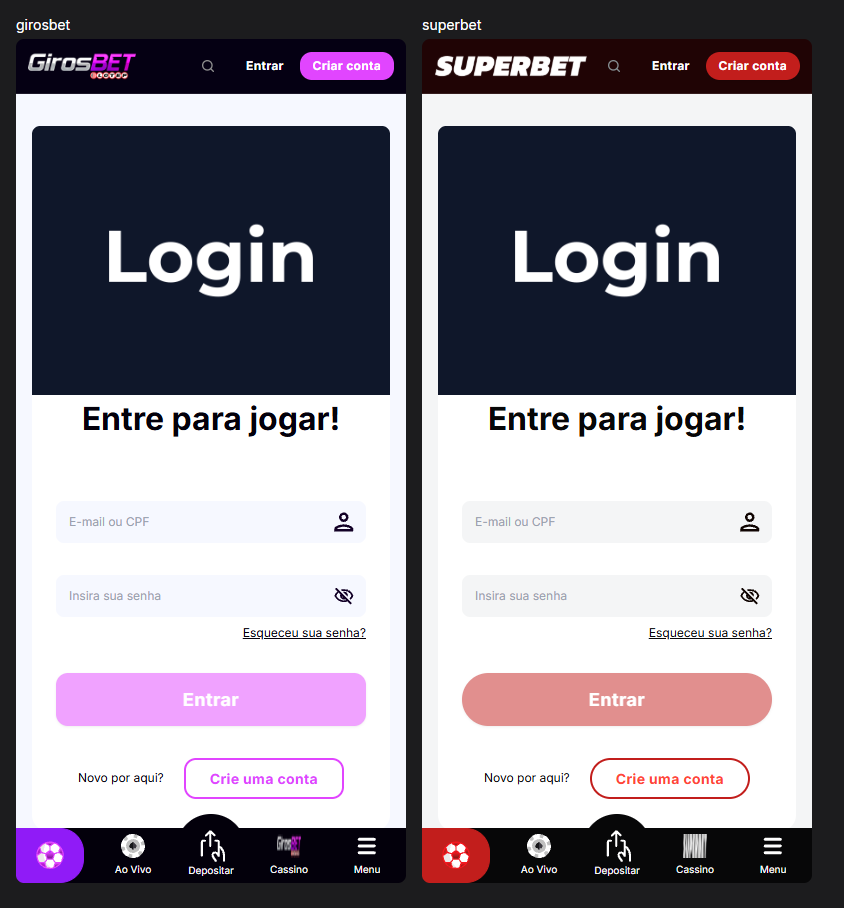
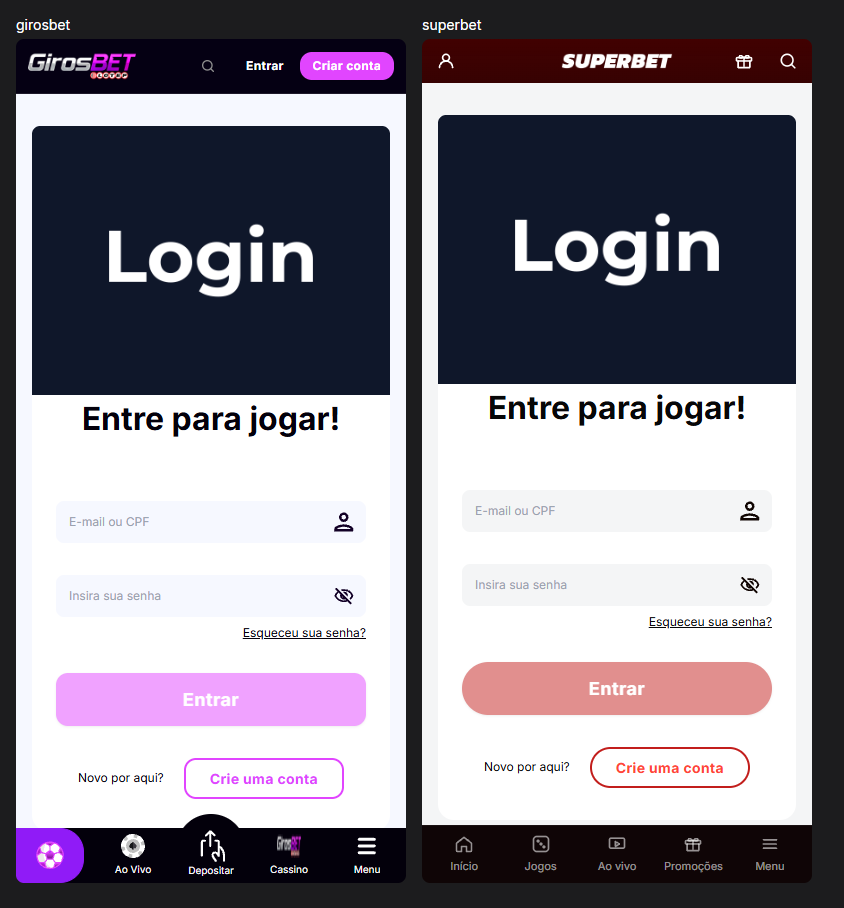
docs(white-label): a WL-9 no desenho, na receita e no backlog, com as capturas da superbet no shell novo
Claude-Session: https://claude.ai/code/session_01B9rccvjmkpDYmCBVzBPUBz

diff --git a/docs/white-label/01-design.md b/docs/white-label/01-design.md
@@ -221,6 +221,70 @@ publicando uma versão nova da lib.
 - Pendências do ambiente, não do código: `assets/icons/play-icon.svg` ("Crash Games") é preto e some no fundo
   escuro; o CORS do backoffice local só aceita as origens 4200/8080.
 
+### O que WL-9 mudou
+
+- `layout.sidebarStyle` decide a pele da sidebar desktop. `blocks` (padrão, girosbet) continua sendo a
+  coluna escura com o banner do CMS, os tiles Cupom/Promo e os menus agrupados. `pills` (superbet) apaga
+  fundo e borda direita da `<aside>`, não pede o banner ao CMS e não desenha os tiles: sobram os mesmos
+  menus agrupados, agora em pílulas de 40 px (`h-10 rounded-full px-3`, ícone de 20 px, rótulo truncado).
+  Largura, offset sticky (`--header-height-desktop`), rolagem e o trilho colapsado de 64 px são os mesmos
+  nas duas peles.
+- O item ativo da pele `pills` é o primeiro consumidor dos tokens de navegação: `text-nav-active` sobre
+  `bg-linear-to-r from-nav-active-fill from-56% to-transparent`. As três marcas declaram os dois tokens,
+  então o mesmo markup se pinta sozinho em cada uma. O destaque da entrada de fidelidade
+  (`features.highlightedMenuLabels`) e o spinner de carregamento não mudaram.
+- `layout.footer` decide a composição do rodapé. `columns` (padrão, betaki e girosbet) é o empilhamento
+  clássico. `regulatory` (superbet) recompõe os mesmos dados em uma grade de cinco colunas
+  (`lg:grid-cols-[1.4fr_1fr_1fr_1fr_1fr]`) sobre `bg-shark-950`: marca, texto de jogo responsável e a
+  fileira de selos à esquerda; as colunas de link e Pagamentos à direita; embaixo o parágrafo regulatório
+  e uma linha final com as redes sociais, o copyright, Ouvidoria/Privacidade e o wordmark grande a 30 %
+  de opacidade. Nenhum dado novo: `linkColumns`, `socialIcons`, `certificationImages`, `supportOptions`,
+  `sponsors`, `legal.disclaimer` e `assets.logoColor` são os de sempre.
+- O respiro inferior do rodapé no mobile passou a depender de `layout.mobileAccountBar`: 88 px para quem
+  só tem o menu inferior, 145 px para quem tem a barra fixa de conta de 57 px acima dele.
+- Os dois componentes ficaram sem `class` estático nos elementos que mudam de pele: a classe inteira é
+  concatenada em um `[class]`, o que deixa a string renderizada idêntica à de hoje para a pele padrão.
+  Prova: 0 pixels de diferença na faixa da sidebar da girosbet (260 x 900) contra a baseline, e o diff de
+  CSS das duas marcas antigas só acusa regras novas mais as custom properties de tema.
+- Fica de fora: a marca de referência não declara redes sociais nem patrocinadores, então a linha de
+  ícones sociais e o bloco de patrocínio do rodapé `regulatory` existem no template mas não aparecem na
+  superbet.
+- `layout.header` deixou de ser um booleano: o header pai escolhe entre `brand-bar`, `dark` e `floating`, e
+  as duas peles antigas produzem exatamente a mesma string de classes de antes. Fora do jogo, o `floating`
+  não pinta barra nenhuma (sem `bg-surface-header`, sem blur, sem borda) e ainda desliga os eventos de
+  ponteiro na faixa vazia, para que a página apareça nas laterais e o clique caia em quem está embaixo. No
+  modo jogo as três peles voltam à barra cheia de sempre, porque a navegação de jogo é a mesma nas três.
+- `app-header-floating` tem o host em `display: contents` e as mesmas entradas e saídas do
+  `app-header-dark`. Acima de `md` é uma barra arredondada de 64 px com 16 px acima e 24 px de gutter,
+  `bg-surface-header/80` com `backdrop-blur-md` e borda `white/5`; dentro, o logo de 22 px, o botão da
+  sidebar desktop quando a marca a declara, os links de produto em 14/600 com o ativo em `text-nav-active`,
+  um separador de 1 px e "Esportes" só quando existe `integrations.sportsbook`, e à direita busca e conta
+  como botões redondos de 32 px mais os dois CTAs em `<app-button>` (ou o bloco de saldo + Depósito quando
+  logado). Abaixo de `md` é uma barra de 44 px transparente: conta à esquerda, wordmark centrado entre duas
+  metades de largura igual (`flex-1 basis-0`), promoções (ou a pílula de saldo, quando logado) e busca à
+  direita. Todos os ícones são SVG inline na grade de 24 em `currentColor`, nenhum arquivo de marca novo.
+- O brilho do `floating` é da página e não da barra: um gradiente de 240 px `from-surface-header-glow`
+  montado pelo shell no topo do `main-container` (`-z-10`, sem eventos de ponteiro), que rola junto com o
+  conteúdo enquanto a barra fica parada, como na superbet.bet.br. O container só vira contexto de
+  empilhamento (`relative z-0`) para essa marca; betaki e girosbet não ganham nem o div nem as classes,
+  porque tudo entra por `[ngClass]`.
+- `layout.mobileNav` decide o menu inferior. `classic` (betaki, girosbet) é o mesmo markup de sempre, agora
+  no ramo `@else`. `tabs` (superbet) é uma barra de 58 px em `bg-surface-nav-mobile` com borda superior
+  `white/5` e cinco itens planos de ícone 20 px e rótulo 11/400, ativo em branco e inativos em branco 56 %:
+  Início, Jogos, Ao vivo, Promoções e, como quinto, a troca de produto (Esportes quando a marca integra um
+  sportsbook, senão Menu, que abre a gaveta com os menus do CMS).
+- `layout.mobileAccountBar` monta `app-mobile-account-bar` logo acima do menu inferior enquanto o jogador
+  está deslogado: 57 px, dois `<app-button>` em metades (Criar conta e Entrar) sobre um gradiente que
+  dissolve no fundo da página. Quem decide se ela existe é o shell, porque a mesma resposta acrescenta o
+  respiro de 57 px no conteúdo; some sozinha quando o jogador entra.
+- `--mobile-menu-height` ganhou casa: a classe `.mobile-nav-tabs`, que o shell carimba em si mesmo quando a
+  marca pede `tabs`, declara os 58 px que a sidebar mobile e a barra de conta leem. As marcas `classic`
+  continuam sem a propriedade, exatamente como antes.
+- Ficou em aberto: a barra fixa de conta também aparece sobre as telas claras de login e de promoções, onde
+  o gradiente escuro destoa; e o `app-ghost-color-layer` do lobby continua espalhando manchas da cor da
+  marca por trás do brilho, o que deixa o fundo da superbet mais avermelhado que o do canvas de referência.
+  Os dois estão fora dos arquivos desta parte.
+
 ## 4. Critérios de aceite globais
 
 1. `npm run build:betaki` produz a mesma UI de hoje (CSS diff só com renomes; screenshots iguais).

diff --git a/docs/design/01-benchmark.md b/docs/design/01-benchmark.md
@@ -54,11 +54,11 @@
 | L8 | Páginas internas sem hero; título à esquerda | `games-list-page`, `*-category-page` | não | pendente |
 | L9 | Mobile: header enxuto, CTA de conta na barra inferior, 5 itens, ícone da marca, grade 4 por linha | `shell/mobile-menu`, `sidebar-mobile`, `game-list` | não | pendente |
 | L10 | Diálogo único de entrada (idade + cookies) no layout da v1 | `age-confirmation-dialog`, `cookie-consent-dialog` | não | pendente |
-| L11 | Rodapé regulatório completo via `BRAND.legal` e footer do CMS | `shell/footer-v2`, `BrandConfig.legal` | sim: footer com grupos | pendente |
-| L12 | Header flutuante: barra arredondada da largura do conteúdo sobre um gradiente da cor da marca (Superbet) | `shell/header-v2/header-dark`, token `--color-surface-header-glow` | não | pendente |
-| L13 | Barra fixa de conta no mobile (Registre-se / Entrar em pílulas iguais) acima do menu inferior, some logado (Superbet, KTO) | `shell/mobile-menu`, `header-dark` | não | pendente |
+| L11 | Rodapé regulatório completo via `BRAND.legal` e footer do CMS | `shell/footer-v2`, `BrandConfig.legal` | sim: footer com grupos | ✅ feito (WL-9, `layout.footer: 'regulatory'`; a superbet usa, betaki e girosbet seguem com o rodapé de colunas) |
+| L12 | Header flutuante: barra arredondada da largura do conteúdo sobre um gradiente da cor da marca (Superbet) | `shell/header-v2/header-dark`, token `--color-surface-header-glow` | não | ✅ feito (WL-9, `layout.header: 'floating'` + token `--color-surface-header-glow`; o brilho rola com a página, a barra fica) |
+| L13 | Barra fixa de conta no mobile (Registre-se / Entrar em pílulas iguais) acima do menu inferior, some logado (Superbet, KTO) | `shell/mobile-menu`, `header-dark` | não | ✅ feito (WL-9, `layout.mobileAccountBar`; some logado e nas rotas de autenticação) |
 | L14 | Atalhos circulares com arte por categoria abaixo do hero e fileira "Top 10" com numerais na cor da marca (Superbet) | `game-filter-list`, novo `top-ten-row` | sim: `meta.icon` nas categorias, categoria `top-10` | pendente |
-| L15 | Troca de produto (Cassino/Esportes) que troca a família de cor do chrome por rota (Superbet) | `BrandConfig.layout`, tokens semânticos por produto | não | pendente |
+| L15 | Troca de produto (Cassino/Esportes) que troca a família de cor do chrome por rota (Superbet) | `BrandConfig.layout`, tokens semânticos por produto | não | parcial (WL-9): o quinto item do menu `tabs` e o link do header viram Esportes quando a marca declara `integrations.sportsbook`; a troca de família de cor por rota continua pendente |
 
 Critério de pronto de cada item: screenshot da label GirosBet ao lado do screenshot correspondente da v1 nas duas larguras, e o build do BetAki inalterado (o BetAki continua com o layout atual através dos seus próprios tokens e menus).
 

diff --git a/docs/white-label/02-como-criar-marca.md b/docs/white-label/02-como-criar-marca.md
@@ -52,7 +52,13 @@ Todo campo com `TODO` precisa de valor. Os que costumam travar:
 - `layout` — que chrome a marca usa. `header: 'brand-bar'` é a barra colorida com links de texto
   (BetAki); `header: 'dark'` é o header escuro com o alternador Cassino/Ao vivo, busca embutida e
   CTA (GirosBet). `desktopSidebar: true` liga a sidebar de desktop com os blocos do CMS. É
-  estrutura, não cor — a cor vem dos tokens do `brand-theme.scss`.
+  estrutura, não cor — a cor vem dos tokens do `brand-theme.scss`. Desde a WL-9 há mais quatro
+  chaves opcionais, todas com o chrome de hoje como padrão: `header: 'floating'` (barra arredondada
+  flutuando sobre um brilho na cor da marca, links de produto, lupa e conta em botões-ícone),
+  `sidebarStyle: 'pills'` (só os menus do CMS, em pílulas, sem banner nem tiles), `footer:
+  'regulatory'` (logo, jogo responsável e selos antes das colunas), `mobileNav: 'tabs'` (cinco
+  itens planos; o último é Esportes com sportsbook, senão Menu) e `mobileAccountBar: true` (Criar
+  conta e Entrar fixos acima do menu inferior). Juntas são o shell da Superbet.
 - `gateways` — não deixe o objeto simples que o template traz: use `brandEnv({ dev, prod, demo })`
   como a girosbet, um adapter por porta. O build de produção recusa o adapter `demo`, e a
   configuração `<slug>-demo` (passo 6) só existe por causa do slot `demo`. O mesmo slot vale para
@@ -93,6 +99,11 @@ por PowerShell ou `WriteAllText`, que preservam CRLF).
   `--color-button-secondary*`, `--color-button-outline-text`, `--color-danger`, `--radius-button`)
   são o que `<app-button>` e o header pintam. Responda a eles e os botões da marca ficam certos sem
   tocar em nenhuma classe de `src/`.
+- Os quatro tokens da WL-9 (`--color-surface-header-glow`, `--color-nav-active`,
+  `--color-nav-active-fill`, `--color-surface-nav-mobile`) são o que o header `floating`, a sidebar
+  `pills` e o menu `tabs` pintam. Toda marca declara os quatro, mesmo sem usar esses layouts; o
+  template traz valores coerentes com o placeholder. Uma marca com header `floating` também sobe
+  `--header-height-desktop` para 80px (64 de barra + 16 acima) e `--header-height-mobile` para 44px.
 - O bloco `@theme static` do fim do arquivo existe porque o Tailwind faz tree-shaking das
   variáveis de `@theme` que nenhuma classe utilitária usa. `--color-brand-spinner` só é lido por
   SCSS de componente (que o Tailwind não escaneia), então precisa ficar lá para chegar ao `:root`.
